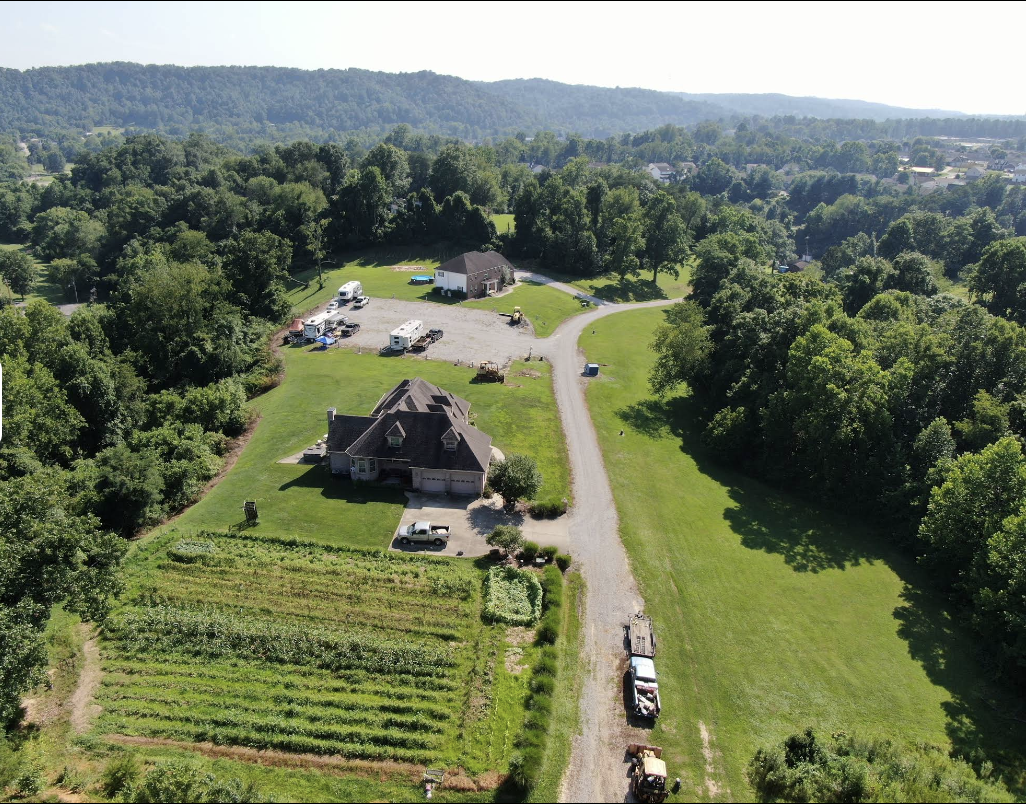
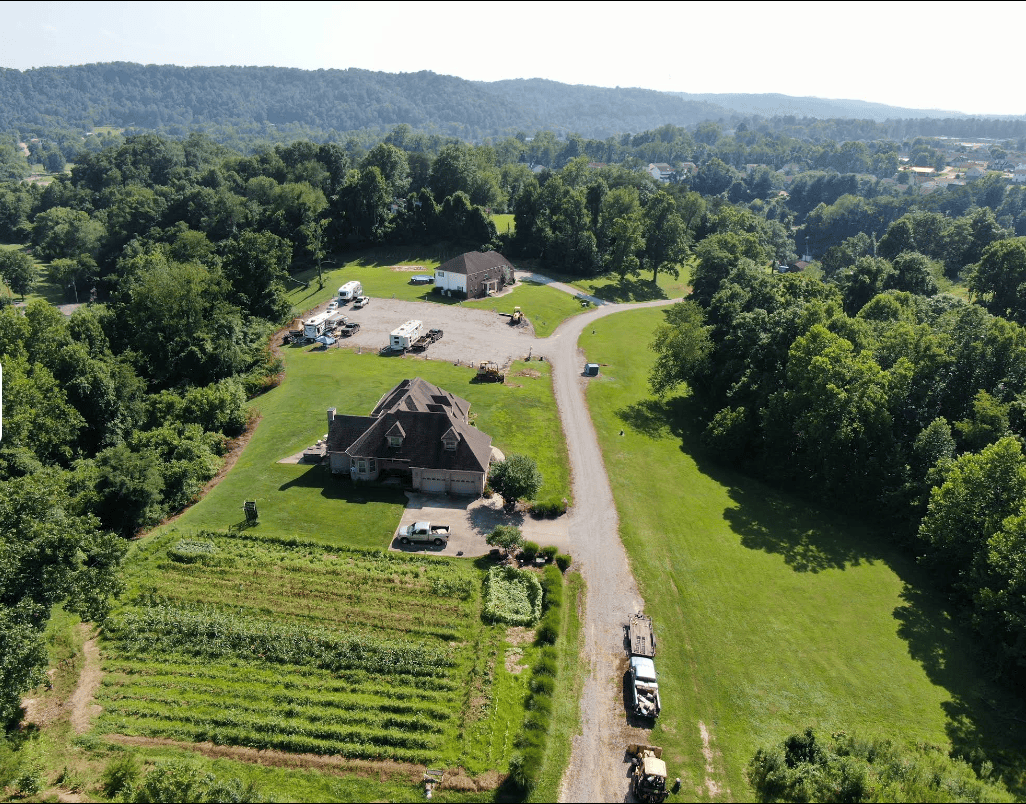
optimize images with webP

diff --git a/src/components/GallerySection.vue b/src/components/GallerySection.vue
@@ -4,40 +4,52 @@
       <h2>Our Campground</h2>
       <div class="gallery-grid">
         <div class="gallery-item">
-          <img
-            src="../assets/camp1.png"
-            alt="Spacious RV lots at Outlook Pointe Campground with modern hookups"
-            loading="lazy"
-            width="800"
-            height="450"
-          />
+          <picture>
+            <source srcset="../assets/camp1.webp" type="image/webp" />
+            <img
+              src="../assets/camp1.png"
+              alt="Spacious RV lots at Outlook Pointe Campground with modern hookups"
+              loading="lazy"
+              width="800"
+              height="450"
+            />
+          </picture>
         </div>
         <div class="gallery-item">
-          <img
-            src="../assets/camp2.png"
-            alt="Aerial view of Outlook Pointe Campground showing the beautiful natural setting"
-            loading="lazy"
-            width="800"
-            height="450"
-          />
+          <picture>
+            <source srcset="../assets/camp2.webp" type="image/webp" />
+            <img
+              src="../assets/camp2.png"
+              alt="Aerial view of Outlook Pointe Campground showing the beautiful natural setting"
+              loading="lazy"
+              width="800"
+              height="450"
+            />
+          </picture>
         </div>
         <div class="gallery-item">
-          <img
-            src="../assets/camp3.png"
-            alt="Modern amenities and facilities at Outlook Pointe Campground"
-            loading="lazy"
-            width="800"
-            height="450"
-          />
+          <picture>
+            <source srcset="../assets/camp3.webp" type="image/webp" />
+            <img
+              src="../assets/camp3.png"
+              alt="Modern amenities and facilities at Outlook Pointe Campground"
+              loading="lazy"
+              width="800"
+              height="450"
+            />
+          </picture>
         </div>
         <div class="gallery-item">
-          <img
-            src="../assets/camp4.png"
-            alt="Scenic views and natural surroundings of Outlook Pointe Campground"
-            loading="lazy"
-            width="800"
-            height="450"
-          />
+          <picture>
+            <source srcset="../assets/camp4.webp" type="image/webp" />
+            <img
+              src="../assets/camp4.png"
+              alt="Scenic views and natural surroundings of Outlook Pointe Campground"
+              loading="lazy"
+              width="800"
+              height="450"
+            />
+          </picture>
         </div>
       </div>
     </div>
